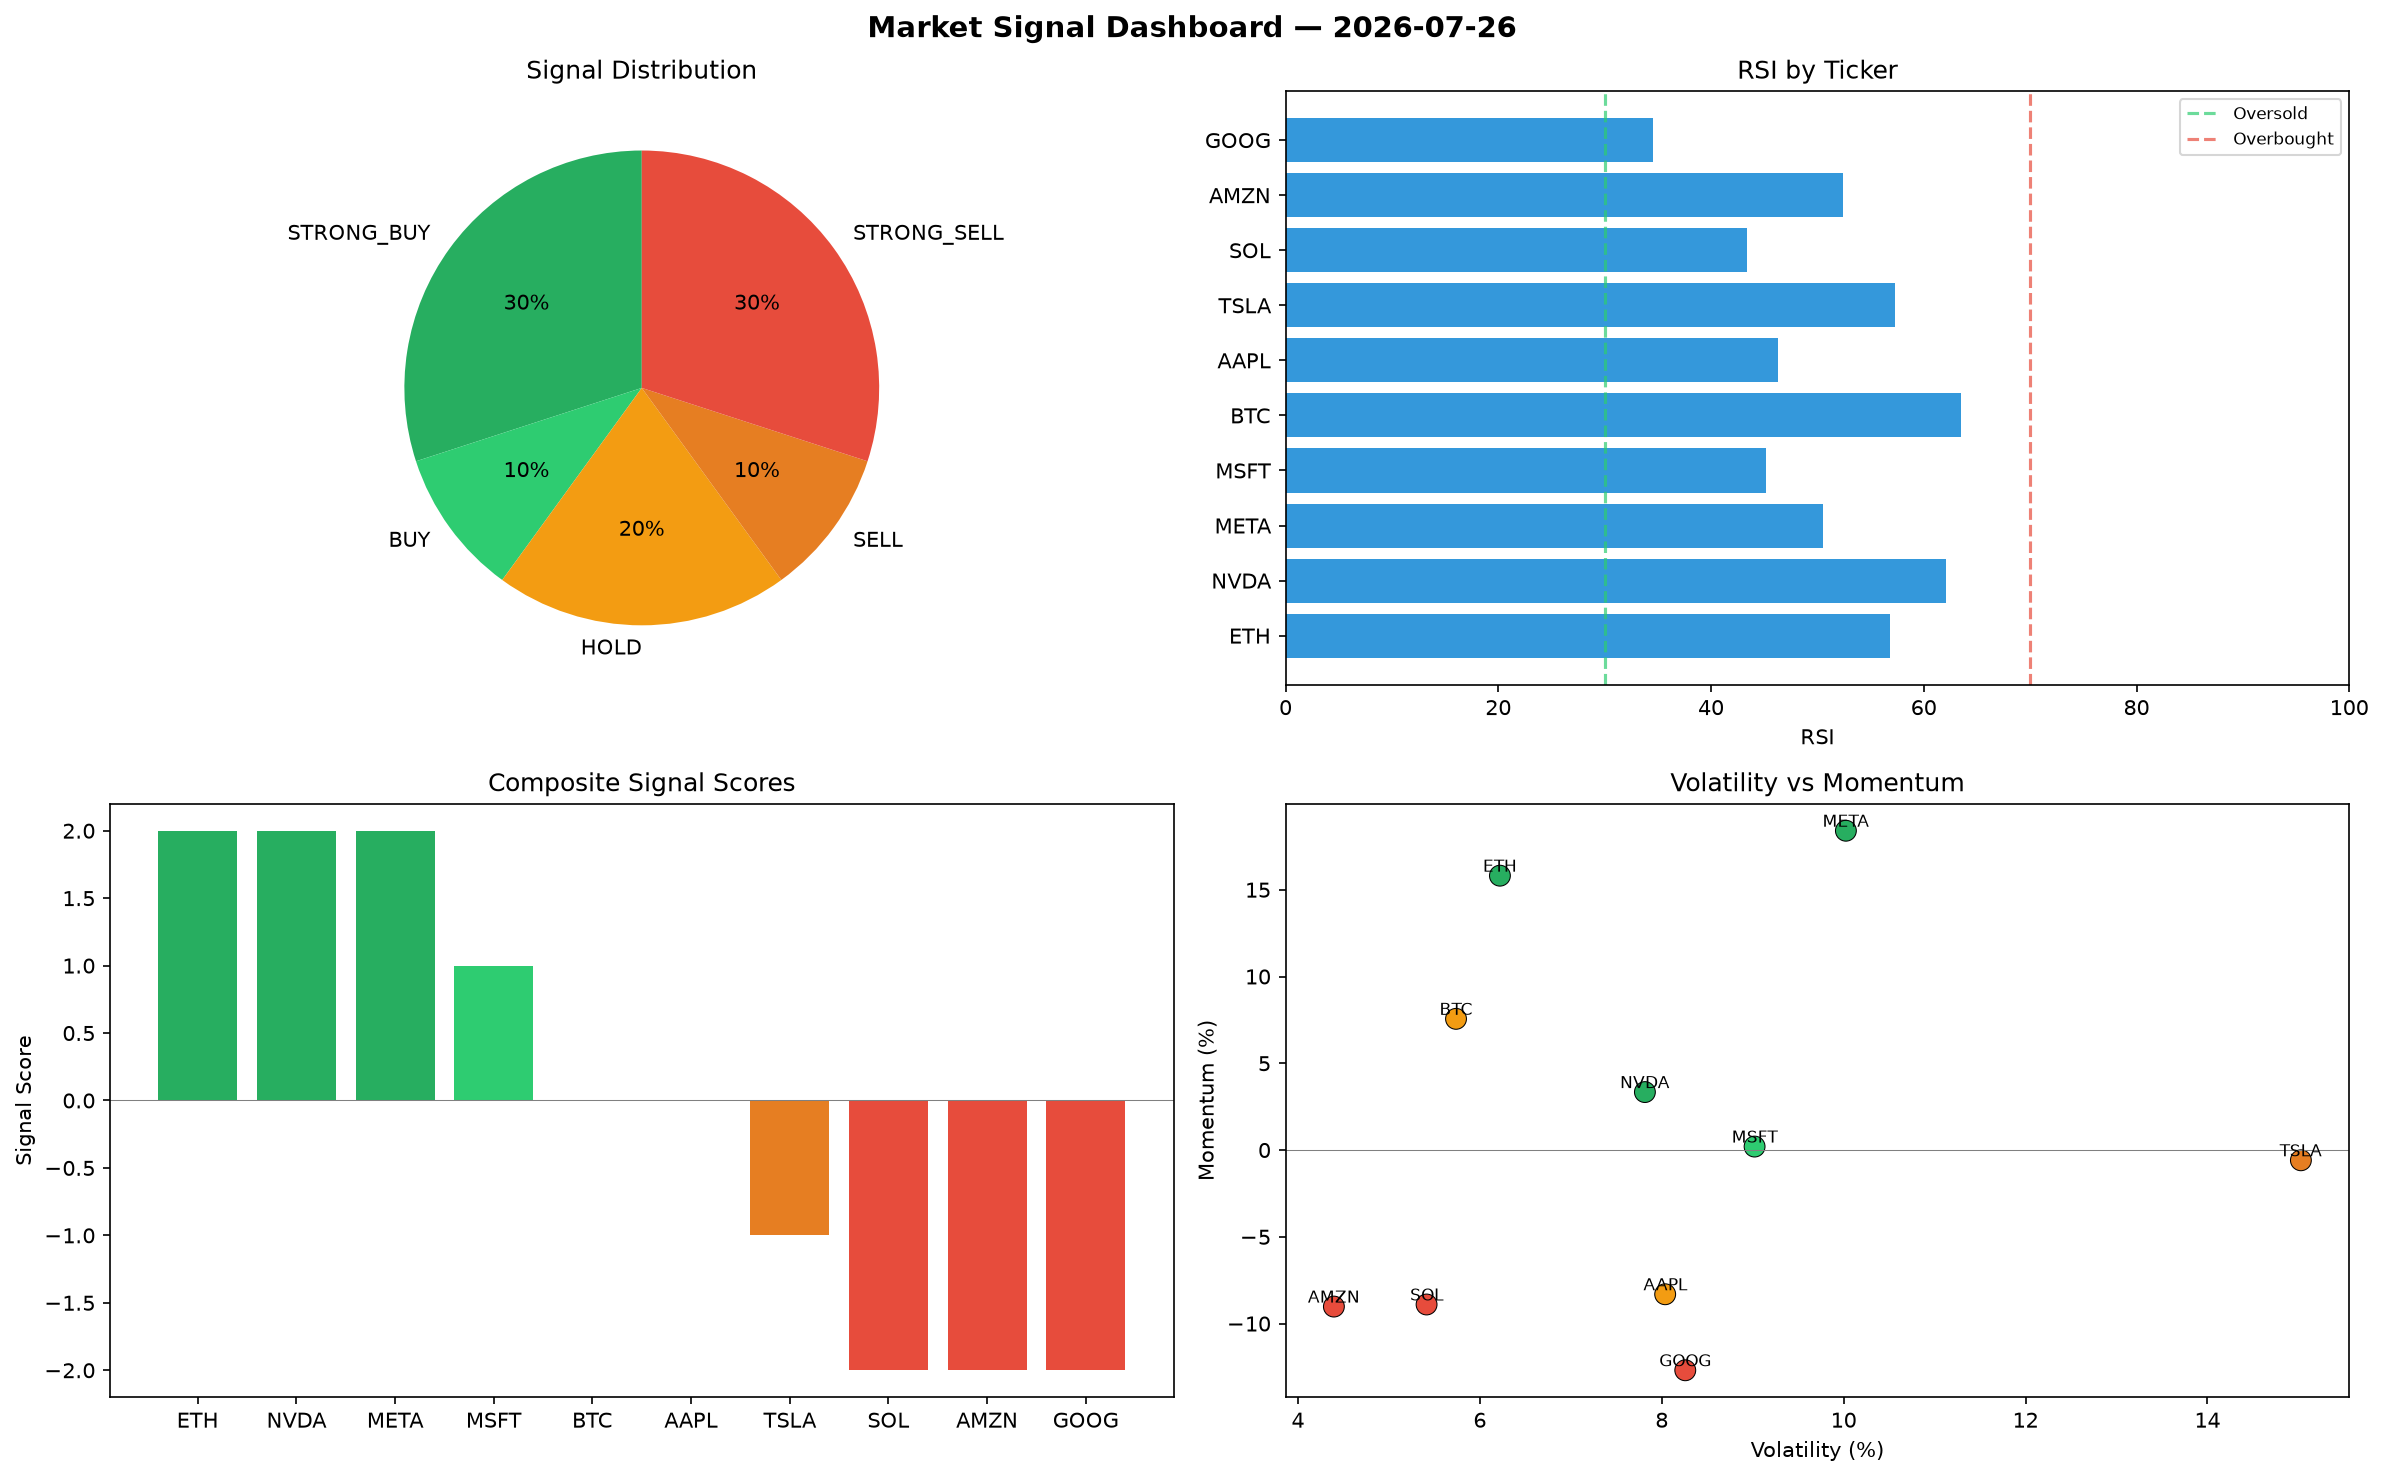
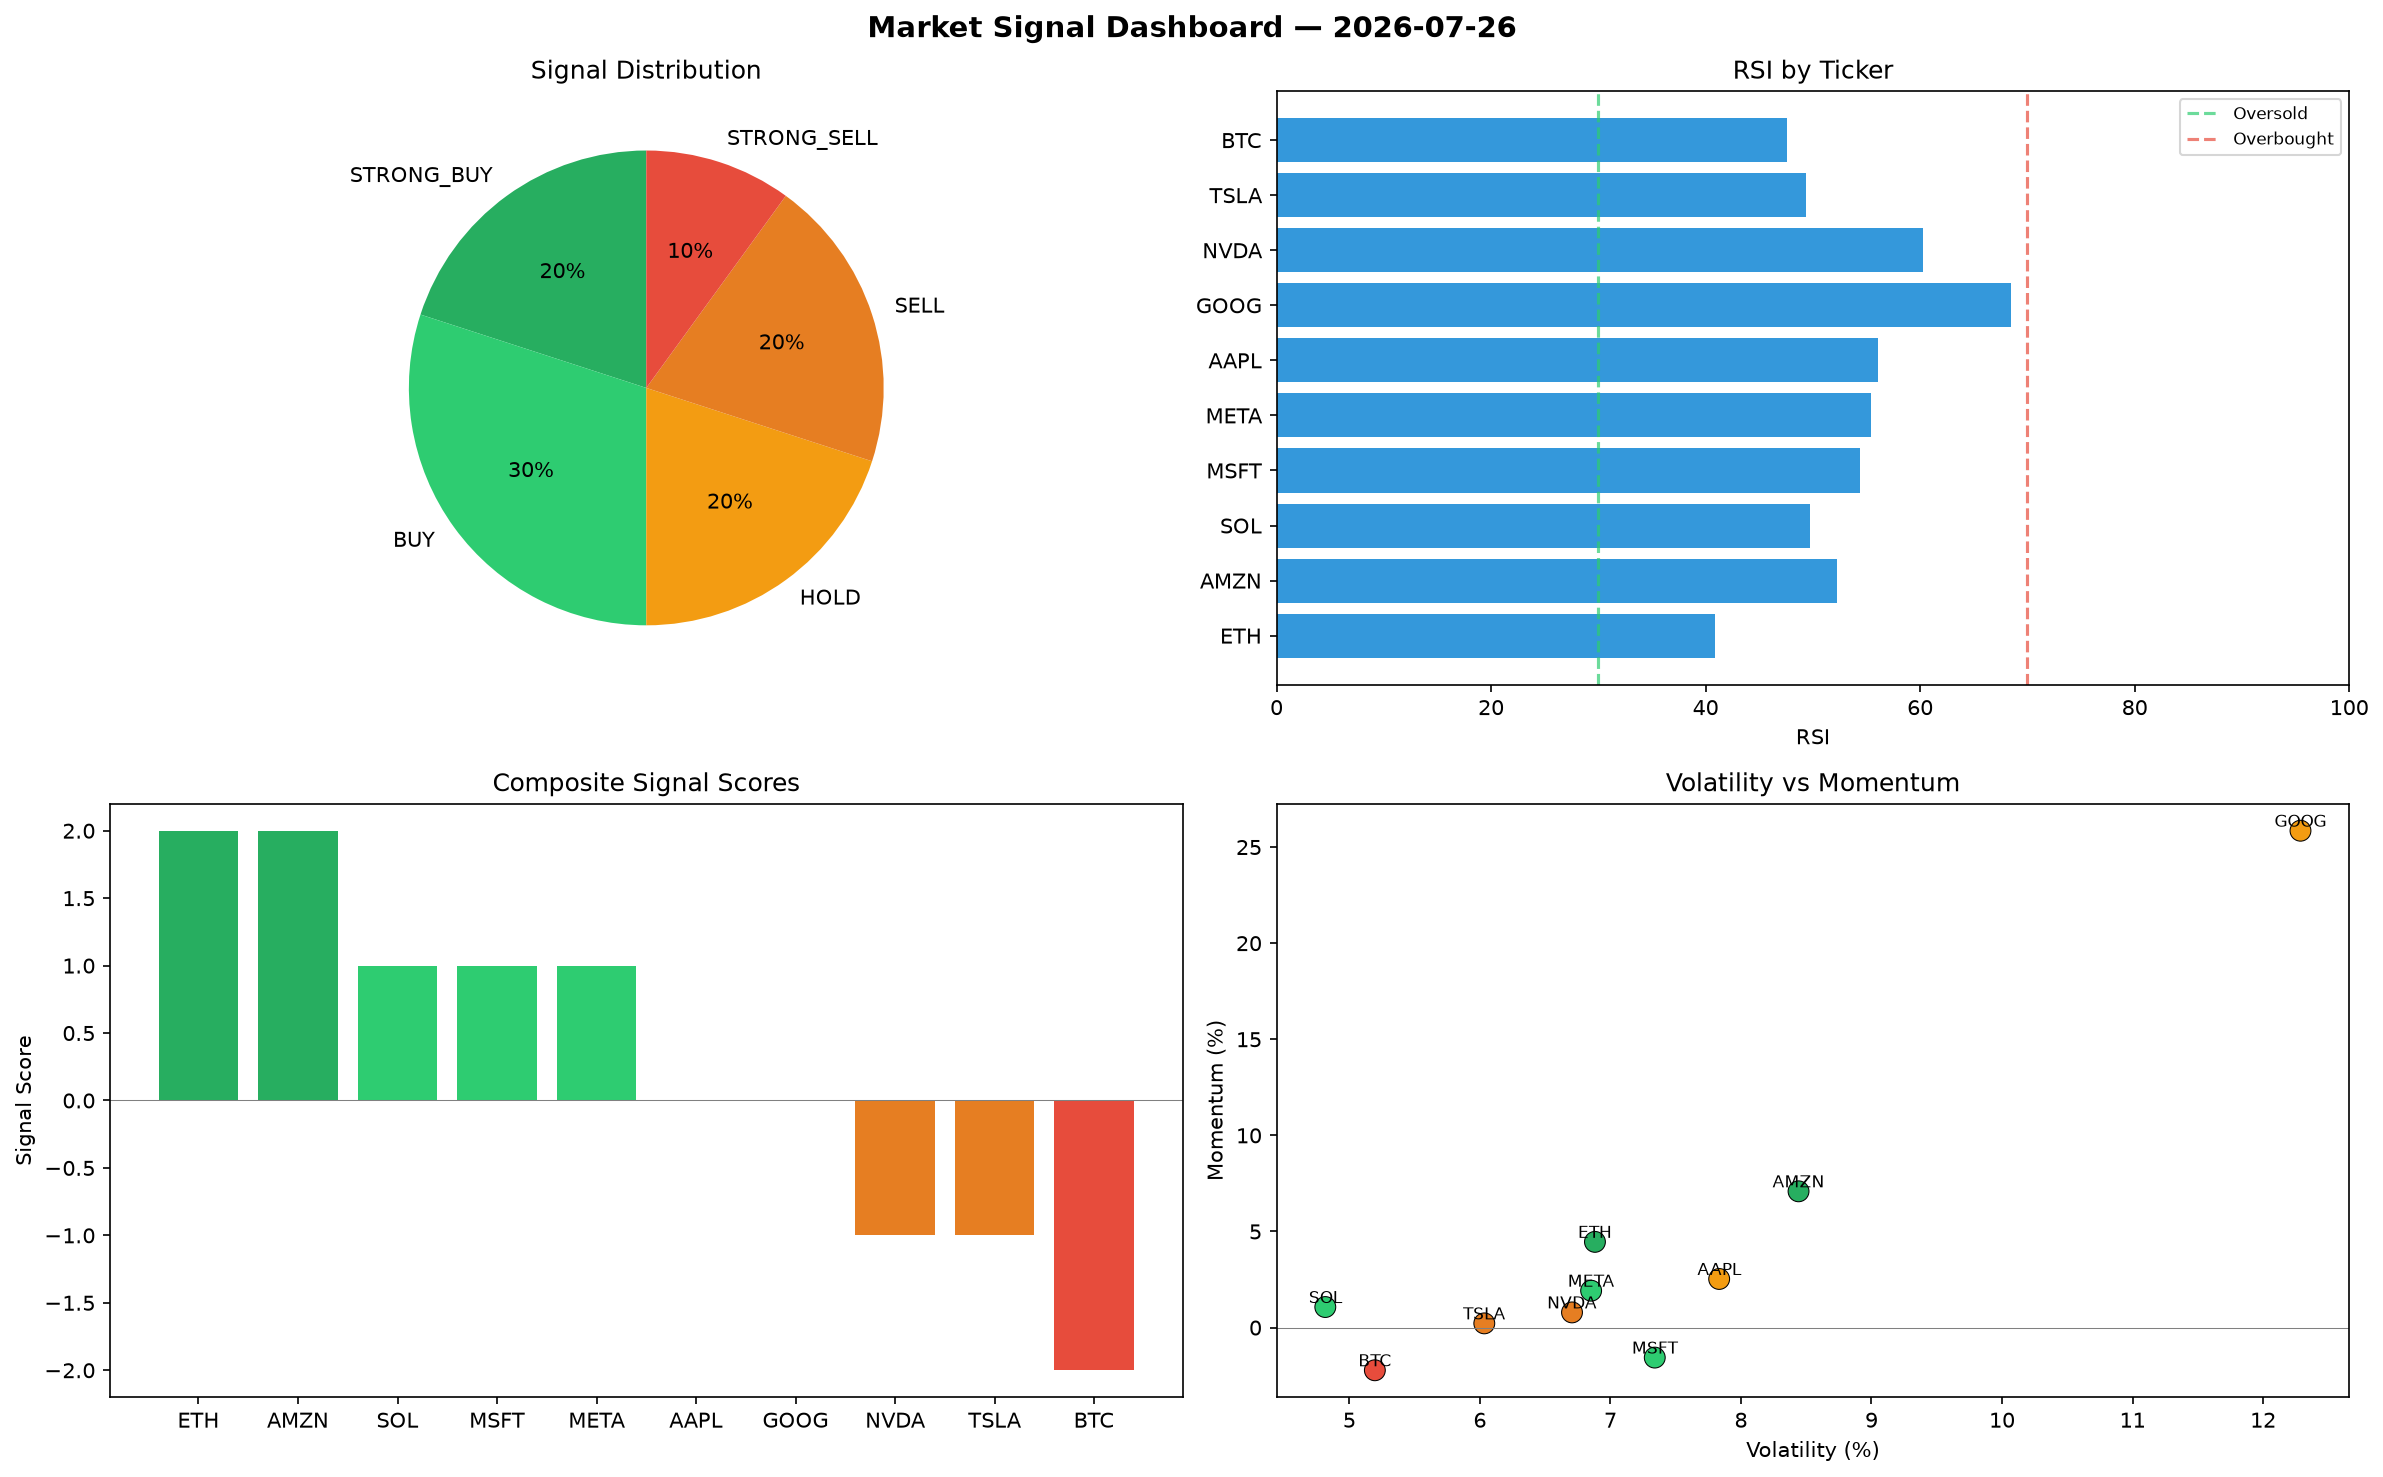
automated-bots: market signals 2026-07-26T10:15

diff --git a/logs/2026-07-26.md b/logs/2026-07-26.md
@@ -1,6 +1,6 @@
 # Market Signal Report — 2026-07-26
 
-**Run ID:** `910a8713bf` | **Buy:** 4 | **Sell:** 4 | **Hold:** 2
+**Run ID:** `28ef4d5174` | **Buy:** 5 | **Sell:** 3 | **Hold:** 2
 
 ![Dashboard](2026-07-26_dashboard.png)
 
@@ -8,28 +8,28 @@
 
 | Ticker | Price | Signal | Score | RSI | Momentum | Confidence |
 |--------|-------|--------|-------|-----|----------|------------|
-| ETH | $2874.07 | **STRONG_BUY** | 2 | 56.86 | 0.1581 | 0.5 |
-| NVDA | $572.81 | **STRONG_BUY** | 2 | 62.07 | 0.0334 | 0.5 |
-| META | $3641.38 | **STRONG_BUY** | 2 | 50.52 | 0.184 | 0.5 |
-| MSFT | $632.43 | **BUY** | 1 | 45.16 | 0.002 | 0.25 |
-| BTC | $1675.78 | **HOLD** | 0 | 63.5 | 0.0756 | 0.0 |
-| AAPL | $3945.82 | **HOLD** | 0 | 46.33 | -0.0831 | 0.0 |
-| TSLA | $1591.67 | **SELL** | -1 | 57.33 | -0.0059 | 0.25 |
-| SOL | $1968.14 | **STRONG_SELL** | -2 | 43.36 | -0.089 | 0.5 |
-| AMZN | $2258.48 | **STRONG_SELL** | -2 | 52.43 | -0.0902 | 0.5 |
-| GOOG | $1950.52 | **STRONG_SELL** | -2 | 34.56 | -0.1269 | 0.5 |
+| ETH | $2477.48 | **STRONG_BUY** | 2 | 40.85 | 0.0446 | 0.5 |
+| AMZN | $3808.1 | **STRONG_BUY** | 2 | 52.28 | 0.0709 | 0.5 |
+| SOL | $2410.54 | **BUY** | 1 | 49.71 | 0.0107 | 0.25 |
+| MSFT | $410.12 | **BUY** | 1 | 54.37 | -0.0156 | 0.25 |
+| META | $4005.12 | **BUY** | 1 | 55.42 | 0.0192 | 0.25 |
+| AAPL | $4927.61 | **HOLD** | 0 | 56.08 | 0.0253 | 0.0 |
+| GOOG | $3616.95 | **HOLD** | 0 | 68.51 | 0.2585 | 0.0 |
+| NVDA | $2234.6 | **SELL** | -1 | 60.22 | 0.0079 | 0.25 |
+| TSLA | $2861.59 | **SELL** | -1 | 49.38 | 0.0022 | 0.25 |
+| BTC | $3153.16 | **STRONG_SELL** | -2 | 47.55 | -0.0222 | 0.5 |
 
 ## Delta vs Yesterday
 
 | Ticker | Today | Yesterday | Price Change | Signal Changed |
 |--------|-------|-----------|-------------|----------------|
-| ETH | STRONG_BUY | HOLD | 📈 44.58% | ⚠ YES |
-| NVDA | STRONG_BUY | SELL | 📈 800.79% | ⚠ YES |
-| META | STRONG_BUY | BUY | 📈 12.24% | ⚠ YES |
-| MSFT | BUY | HOLD | 📉 -75.51% | ⚠ YES |
-| BTC | HOLD | SELL | 📈 62.01% | ⚠ YES |
-| AAPL | HOLD | HOLD | 📈 379.92% | — |
-| TSLA | SELL | SELL | 📉 -46.04% | — |
-| SOL | STRONG_SELL | HOLD | 📉 -17.53% | ⚠ YES |
-| AMZN | STRONG_SELL | STRONG_SELL | 📈 8121.62% | — |
-| GOOG | STRONG_SELL | STRONG_SELL | 📈 299.96% | — |
+| ETH | STRONG_BUY | HOLD | 📈 24.63% | ⚠ YES |
+| AMZN | STRONG_BUY | STRONG_SELL | 📈 13762.76% | ⚠ YES |
+| SOL | BUY | HOLD | 📈 1.01% | ⚠ YES |
+| MSFT | BUY | HOLD | 📉 -84.12% | ⚠ YES |
+| META | BUY | BUY | 📈 23.45% | — |
+| AAPL | HOLD | HOLD | 📈 499.33% | — |
+| GOOG | HOLD | STRONG_SELL | 📈 641.66% | ⚠ YES |
+| NVDA | SELL | SELL | 📈 3414.07% | — |
+| TSLA | SELL | SELL | 📉 -2.99% | — |
+| BTC | STRONG_SELL | SELL | 📈 204.84% | ⚠ YES |
